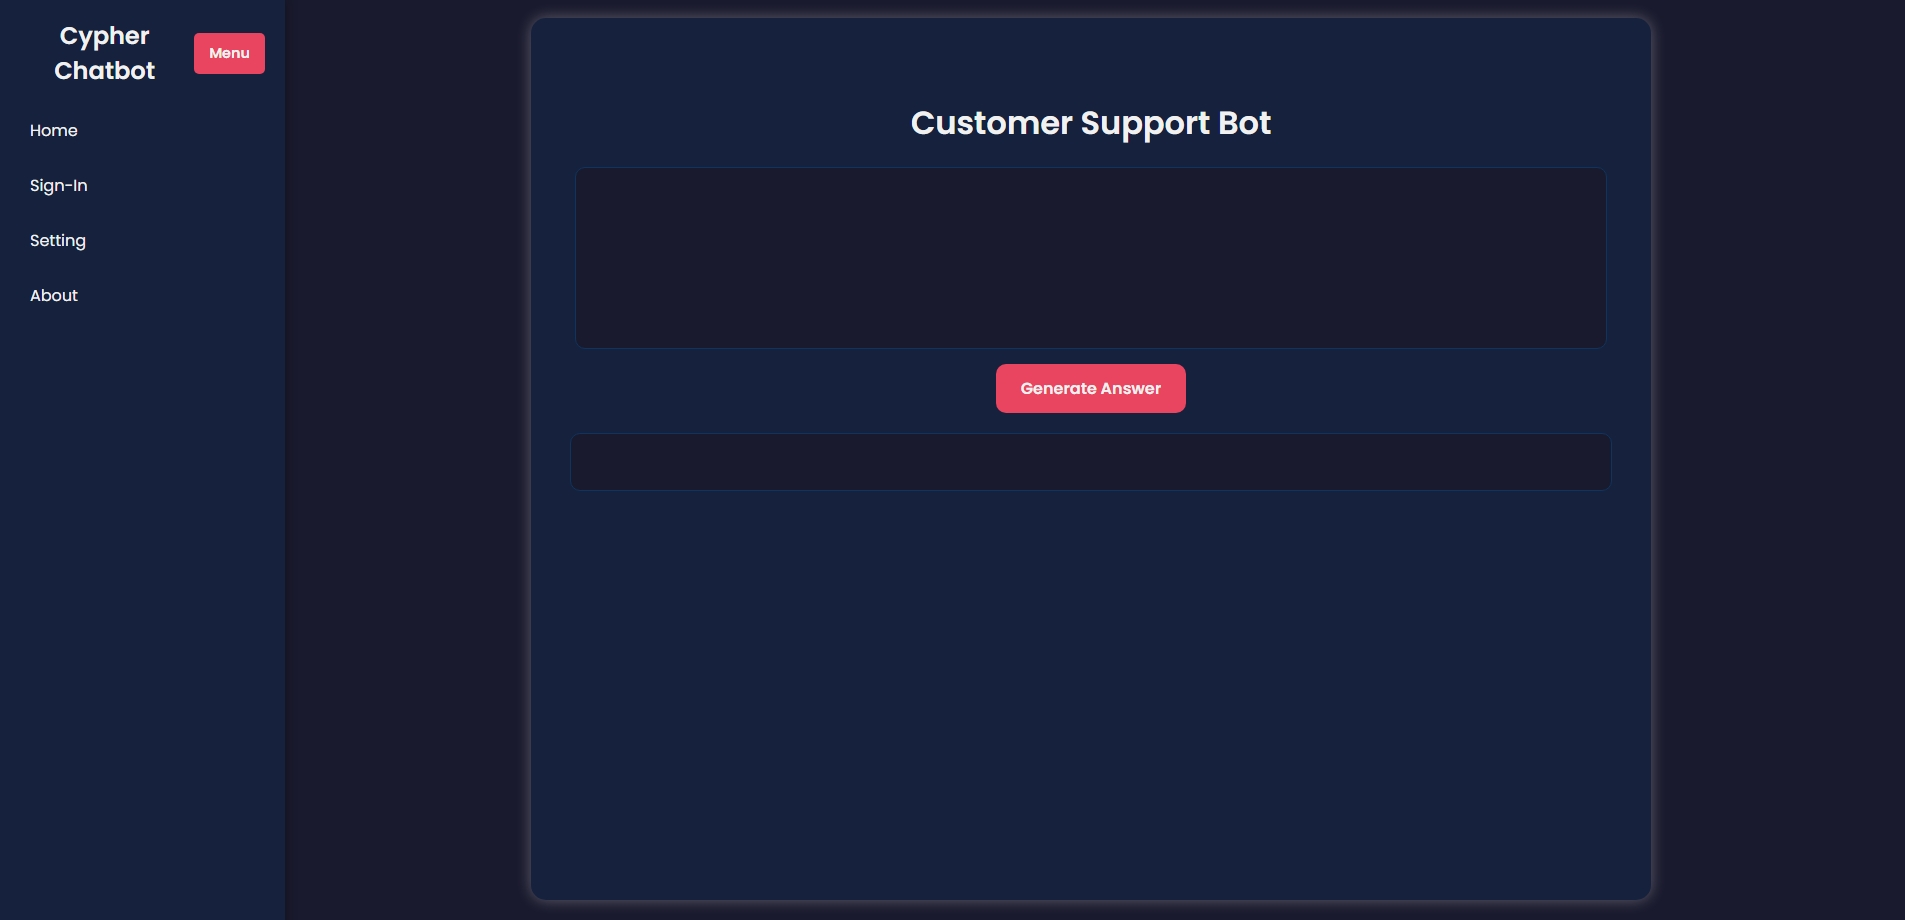
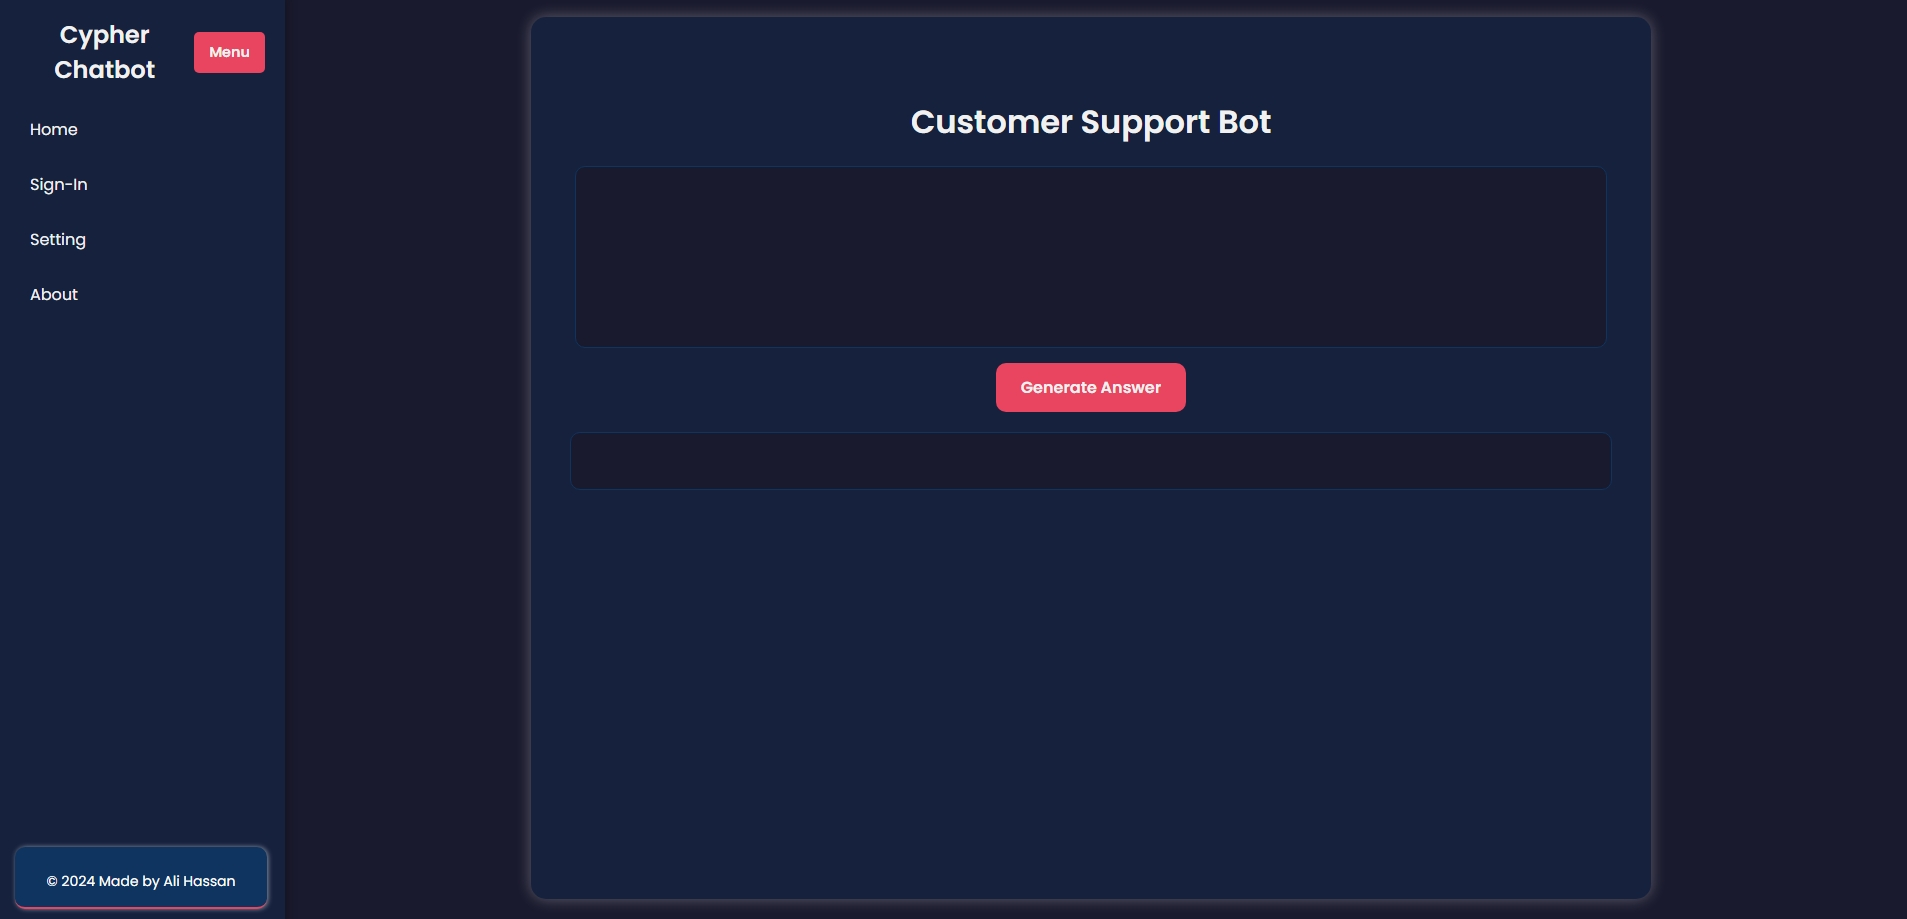
inital commit2

diff --git a/src/App.css b/src/App.css
@@ -417,6 +417,21 @@ button:hover {
   animation: spin 1s linear infinite;
   margin: 20px auto;
 }
+.sidebar-footer {
+  position: absolute;
+  bottom: 0;
+  width: 80%;
+  text-align: center;
+  height: 40px;
+  padding: 10px;
+  box-shadow: 1px 0 5px rgba(255, 255, 255, 0.5);
+  margin-bottom: 50px;
+  border-bottom: 2px solid #e94560;
+  border-radius: 10px;
+  font-size: 14px;
+  color: #ffffff;
+  background-color: #0f3460; /* Adjust as needed */
+}
 
 @keyframes spin {
   0% {

diff --git a/src/components/ChatPage.jsx b/src/components/ChatPage.jsx
@@ -105,6 +105,9 @@ function ChatPage() {
                         <li>About</li>
                     </ul>
                 </div>
+                <div className="sidebar-footer">
+                    <p>&copy; 2024 Made by Ali Hassan</p>
+                </div>
             </div>
             <div className="main-content">
                 <div className="chat-container">
